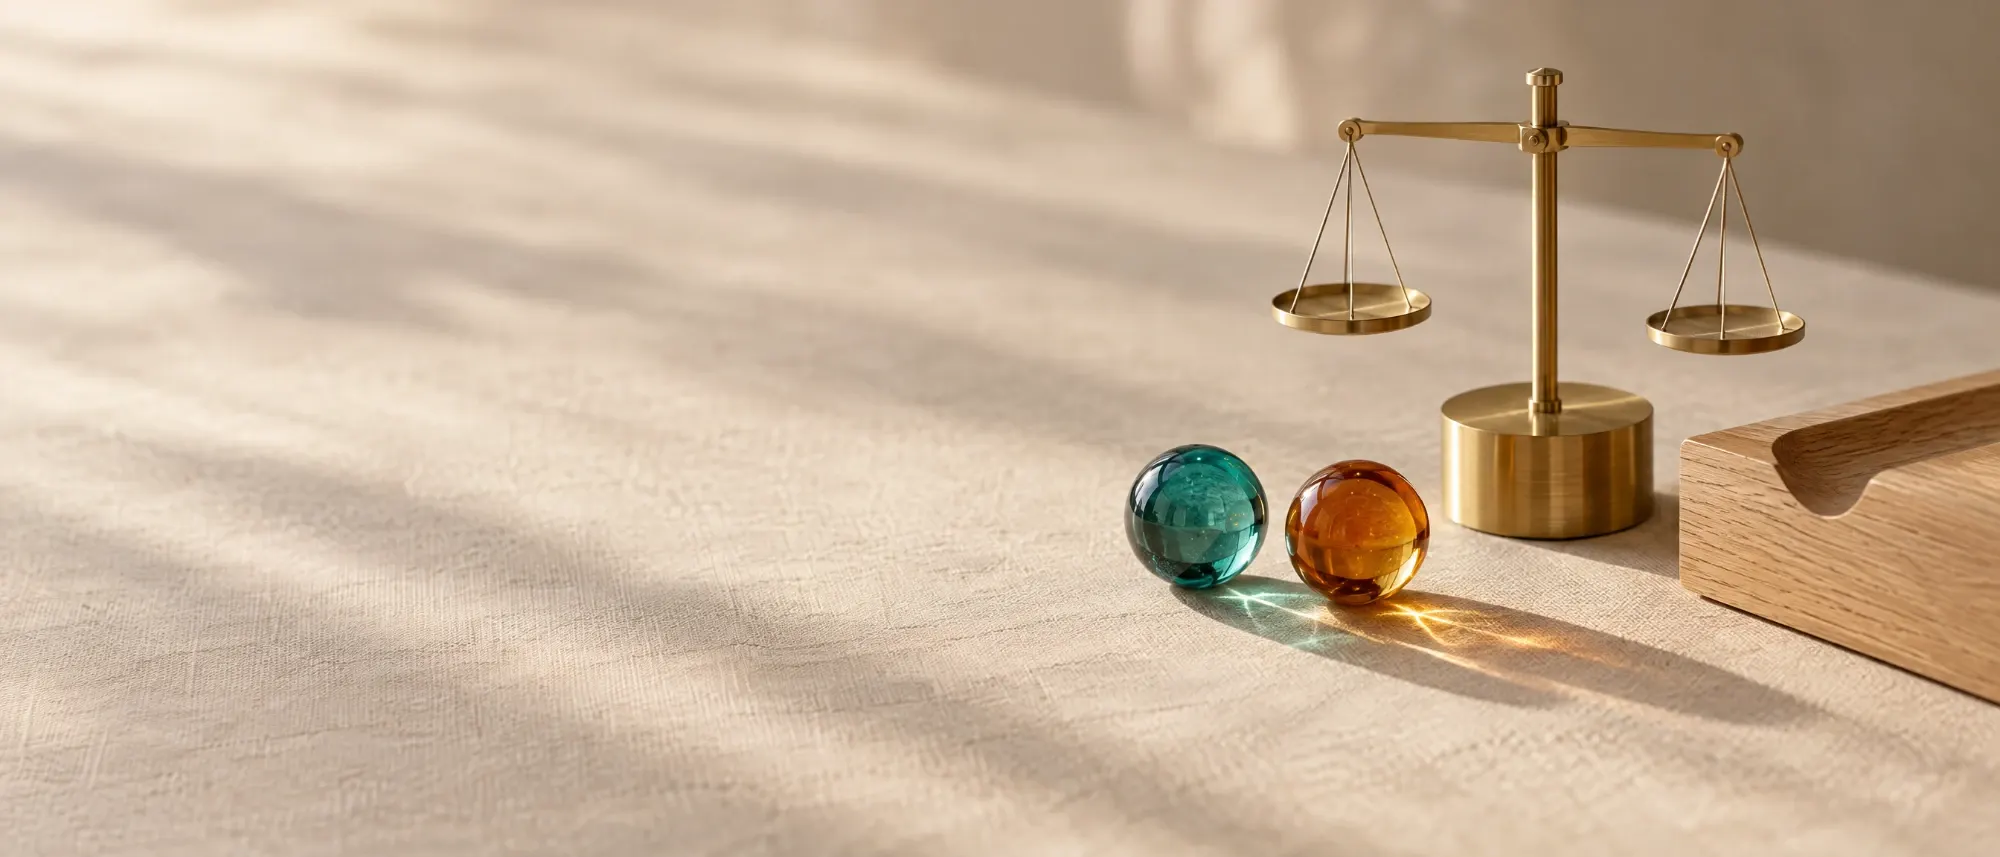
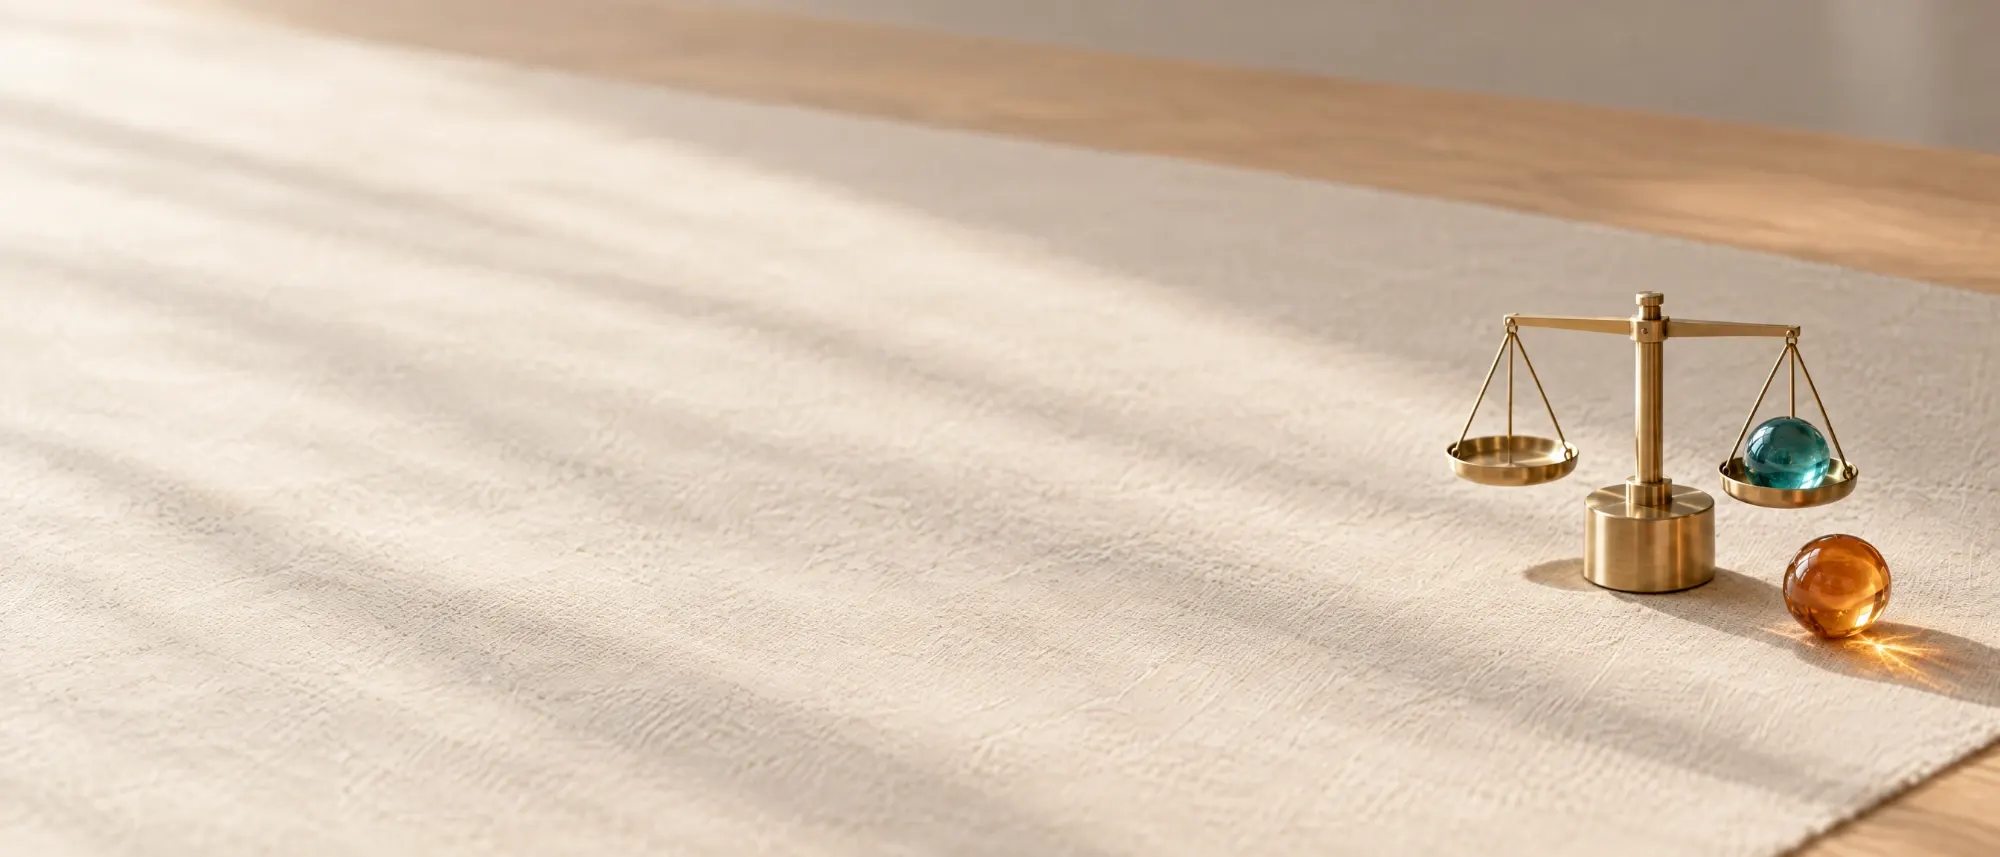
Place the remaining Higgsfield stills
Acts 2 and 3, the design-partner envelopes beside the traction heading,
and the emptier hero plate. Custody stays on its fallback.

Claude-Session: https://claude.ai/code/session_01LJDWciooLdxygPuGxpTtYU

diff --git a/components/recognition.tsx b/components/recognition.tsx
@@ -1,6 +1,7 @@
 import Image from "next/image"
 import { ArrowUpRight } from "lucide-react"
 import { Reveal } from "@/components/reveal"
+import { media } from "@/lib/media"
 import { backers, lois, loiLabel } from "@/lib/traction"
 
 // Design partners as hairline rows (a ledger, not a card grid) and recognition as
@@ -10,17 +11,27 @@ export function Recognition() {
   return (
     <section id="traction" aria-labelledby="traction-title" className="relative scroll-mt-24">
       <div className="max-w-7xl mx-auto px-6">
-        <Reveal className="mb-10 grid gap-6 lg:grid-cols-2 lg:gap-16 lg:items-end">
+        <Reveal className="mb-10 grid gap-8 lg:grid-cols-2 lg:gap-16 lg:items-end">
           <div>
             <p className="text-[13px] text-[#766d67] mb-4">Traction</p>
             <h2 id="traction-title" className="font-display text-4xl sm:text-5xl leading-[1.04] text-[#1f1a17]">
               Shaped with Swiss care partners.
             </h2>
+            <p className="mt-6 max-w-md text-base sm:text-lg leading-relaxed text-[#6f6660]">
+              Four organisations have signed letters of intent to validate Sanafin&apos;s workflows, and a clinical proof of
+              concept is running. Partners are anonymised by agreement; signed letters are available to investors under NDA.
+            </p>
           </div>
-          <p className="max-w-md text-base sm:text-lg leading-relaxed text-[#6f6660] lg:pb-2">
-            Four organisations have signed letters of intent to validate Sanafin&apos;s workflows, and a clinical proof of
-            concept is running. Partners are anonymised by agreement; signed letters are available to investors under NDA.
-          </p>
+          {media.partnersStill && (
+            <figure className="overflow-hidden rounded-3xl">
+              <img
+                src={media.partnersStill}
+                alt="Four sealed cream envelopes with brass clips on linen, beside a teal glass marble"
+                className="aspect-[16/9] w-full object-cover"
+                loading="lazy"
+              />
+            </figure>
+          )}
         </Reveal>
 
         <ul className="border-t border-[#ece7e2]">

diff --git a/lib/media.ts b/lib/media.ts
@@ -6,11 +6,11 @@
 export const media = {
   heroPlate: "/media/hero-plate.webp" as string | null,
   actRefuses: "/media/act-refuses.webp" as string | null,
-  actPays: null as string | null,
-  actTamper: null as string | null,
+  actPays: "/media/act-pays.webp" as string | null,
+  actTamper: "/media/act-tamper.webp" as string | null,
   problemStill: "/media/problem-still.webp" as string | null,
   custodyStill: null as string | null,
-  partnersStill: null as string | null,
+  partnersStill: "/media/partners-still.webp" as string | null,
   researchStill: "/media/research-still.webp" as string | null,
   researchLoop: "/media/research-loop.mp4" as string | null,
   closingLoop: "/media/closing-loop.mp4" as string | null,
